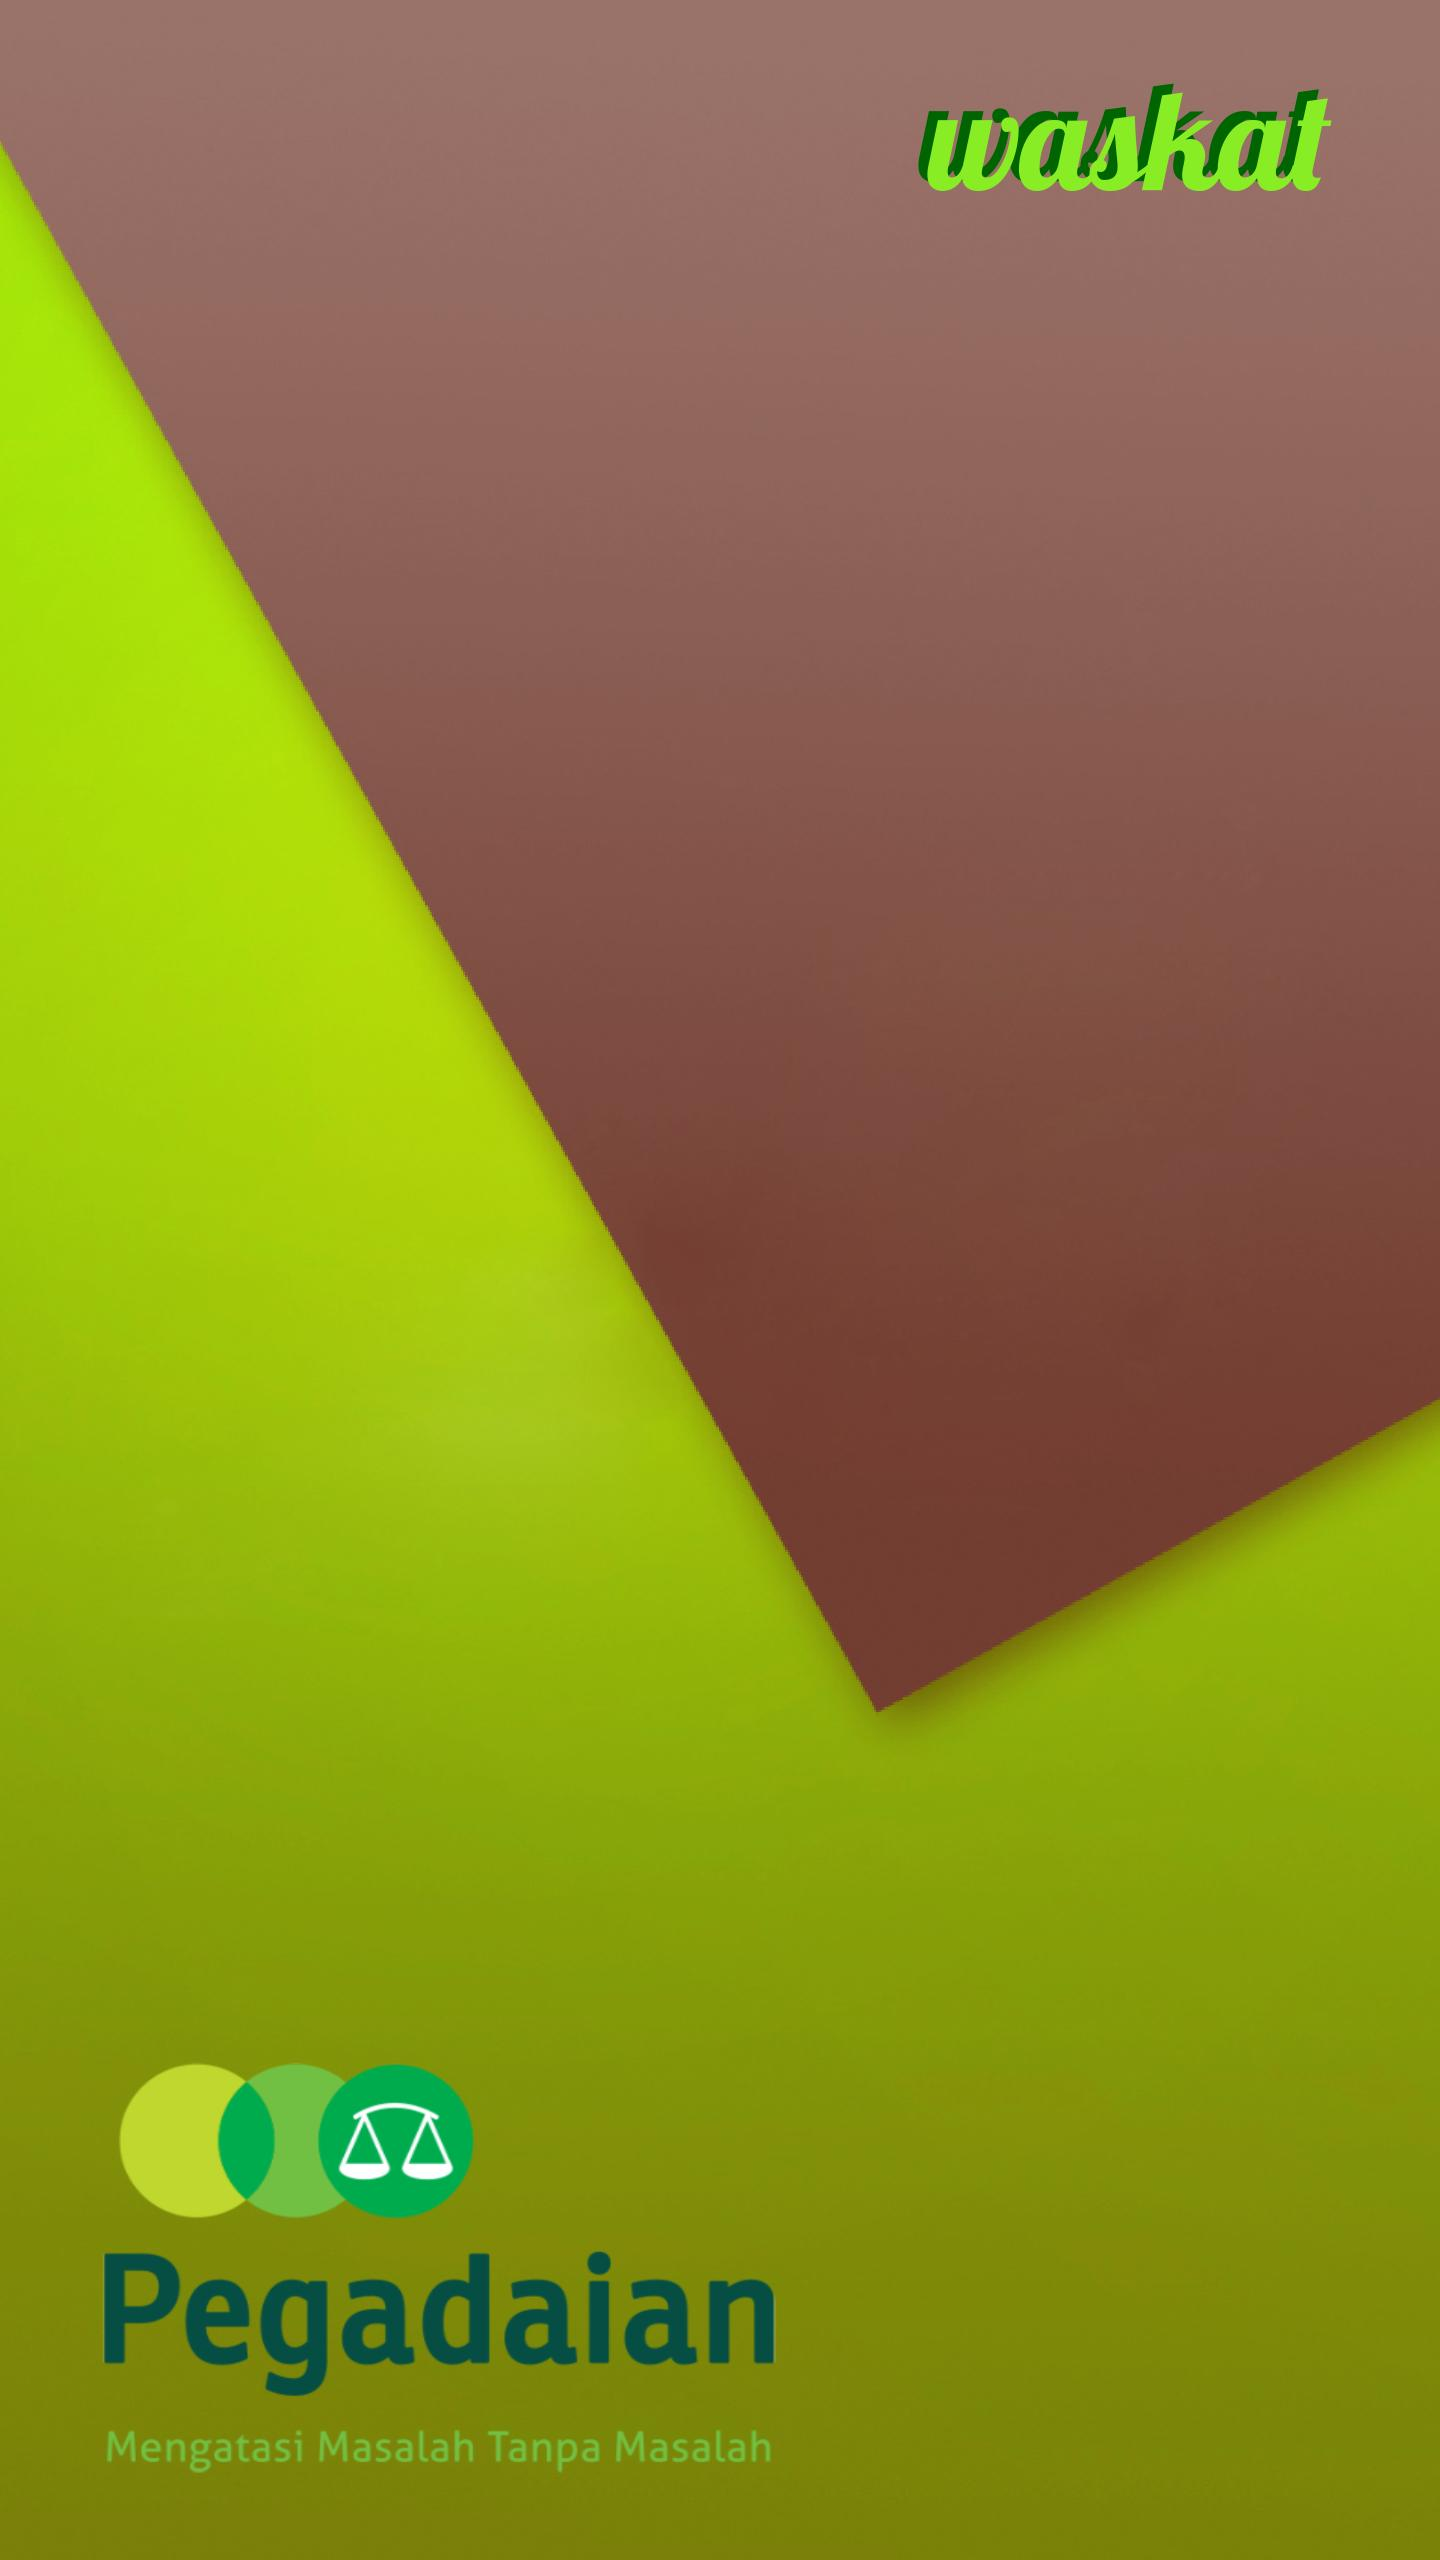
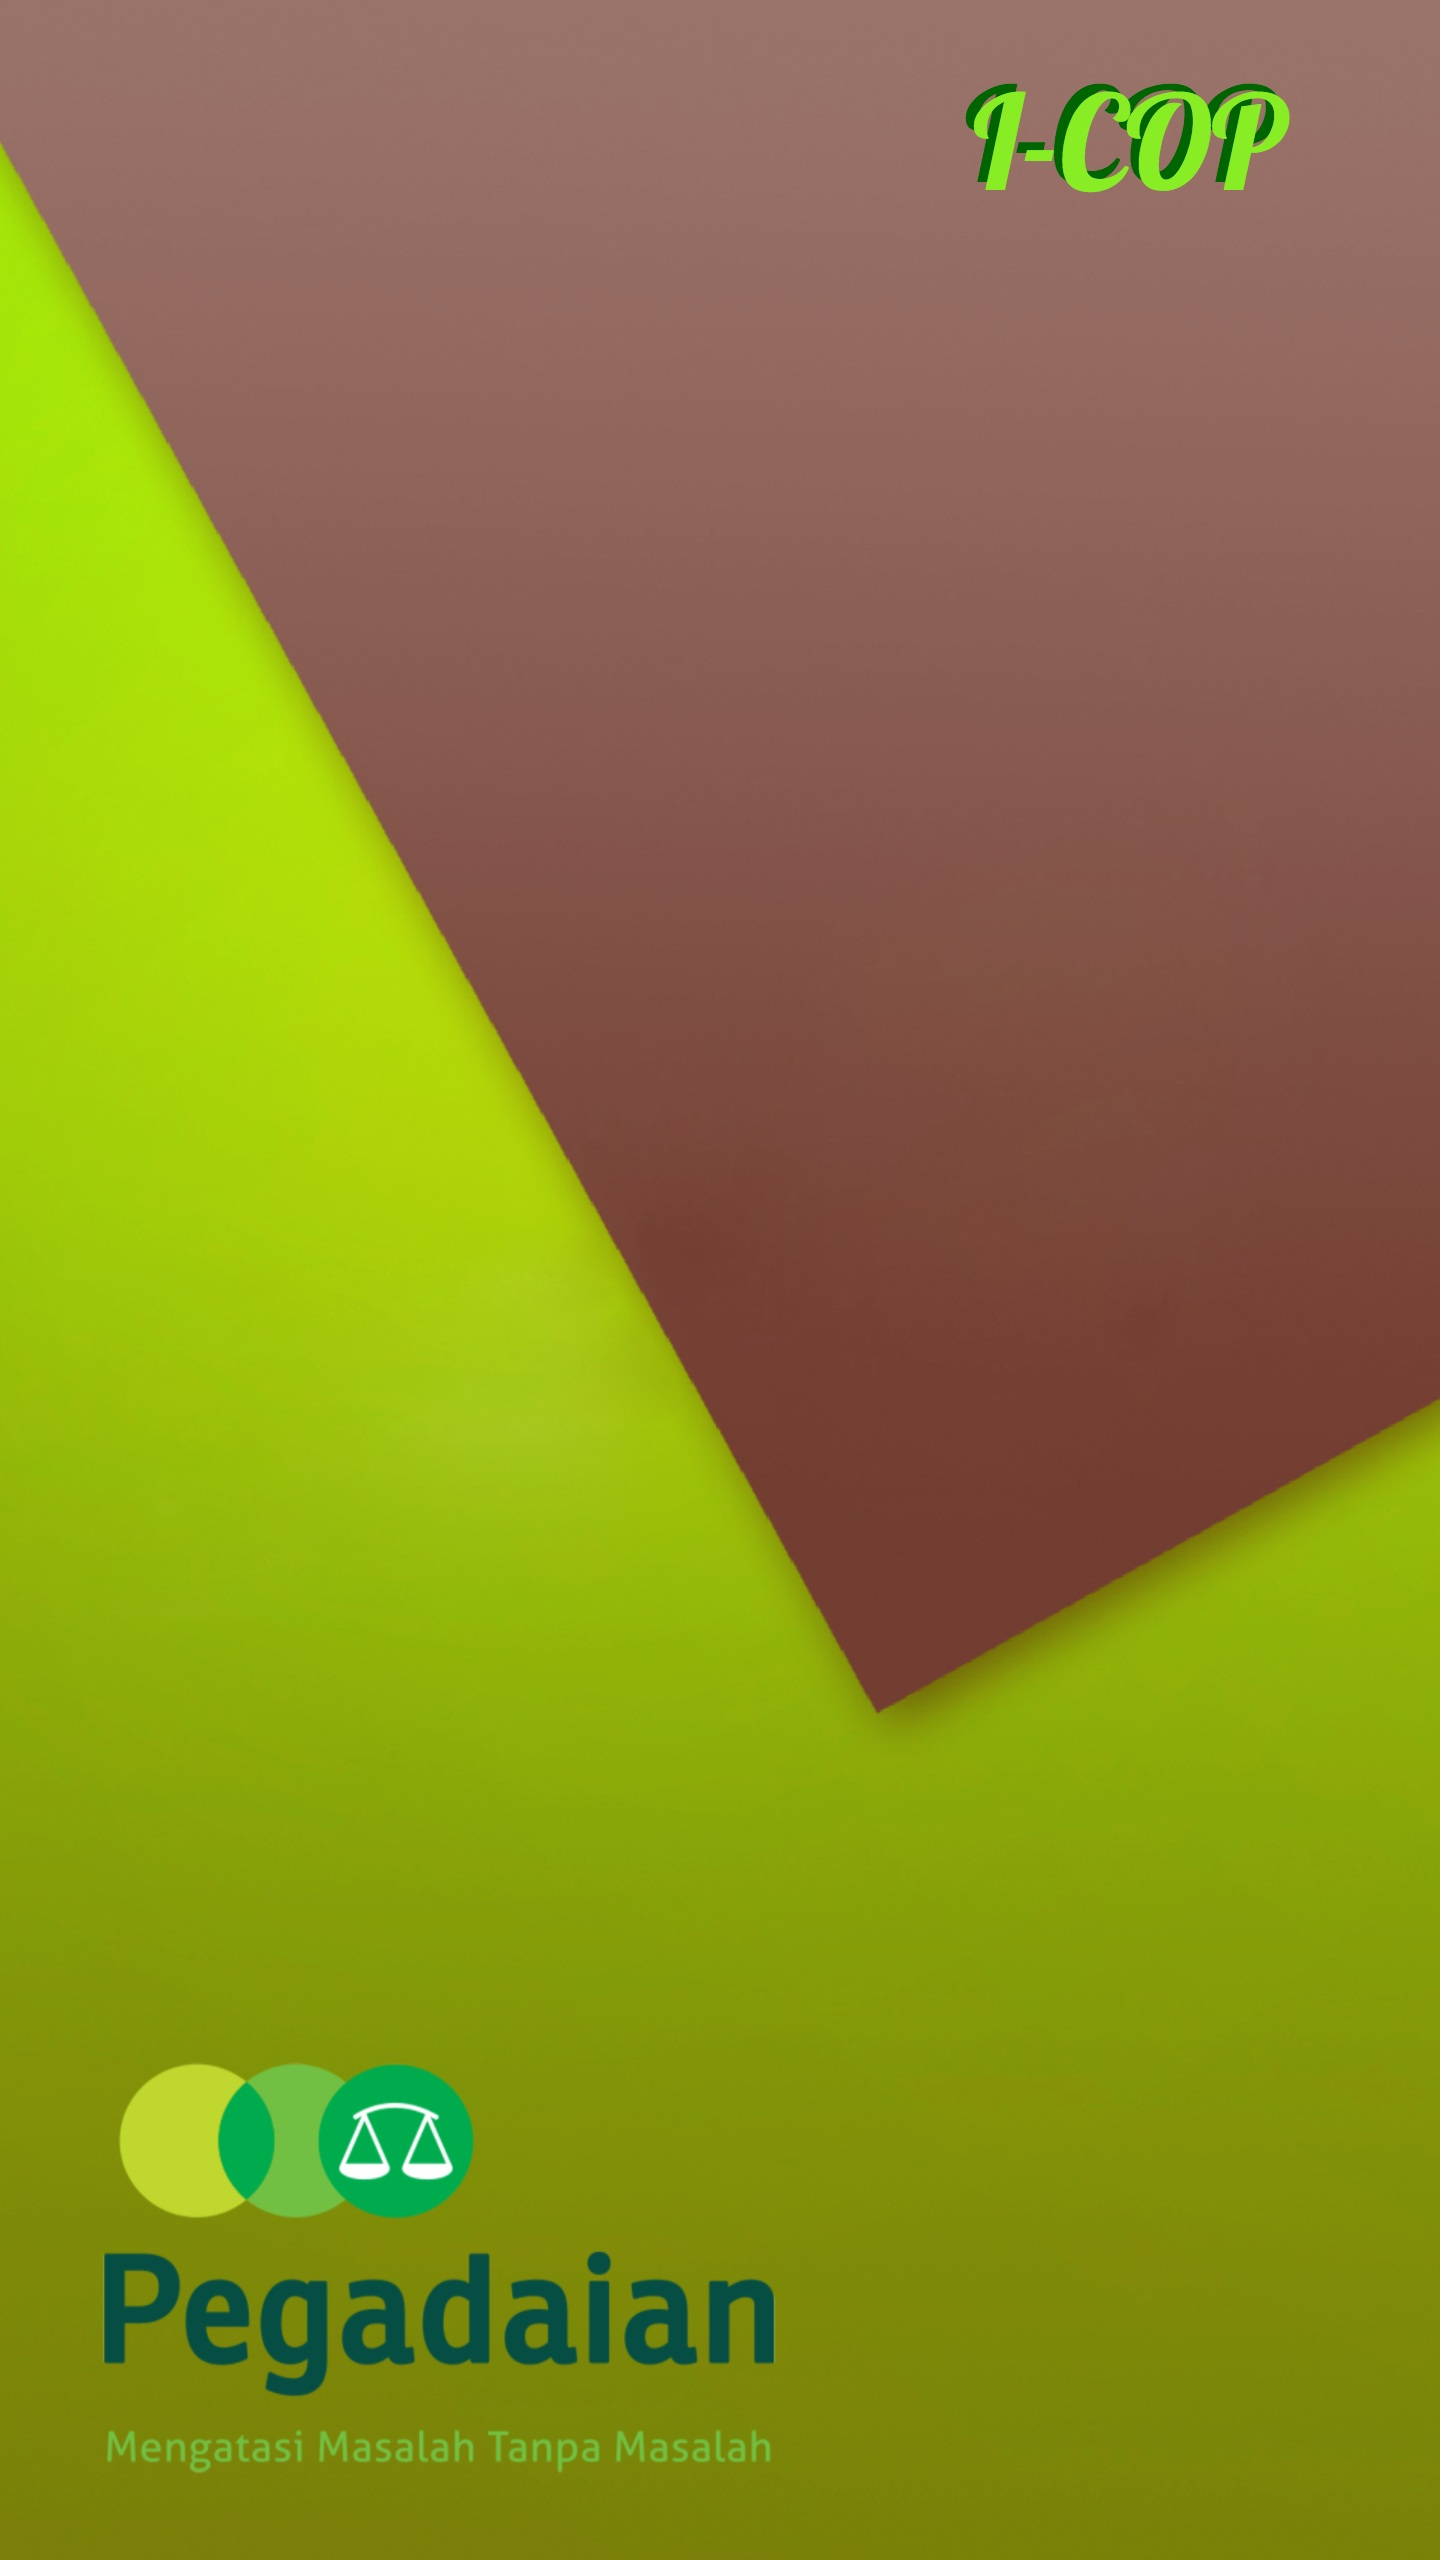
ganti project app engine krn yg lama crash, instance VM nya restart mulu

Changed region(s): [[0.625, 0.0312, 0.9375, 0.0938]]

diff --git a/waskat/src/components/home/cardBarang.js b/waskat/src/components/home/cardBarang.js
@@ -29,11 +29,7 @@ export default class CardBarang extends React.PureComponent {
         console.log('hasil delete', resultAxios)
         Alert.alert(
           'Sukses!',
-          `Berhasil delete user id: ${idUser}`,
-        [
-          {text: 'OK', onPress: () => this.props.getUser()}
-        ],
-        {cancelable: false})
+          `Berhasil delete user id: ${idUser}`)
       })
       .catch(err => {
         console.log('error delete user', err)
@@ -66,9 +62,11 @@ export default class CardBarang extends React.PureComponent {
                 </View>
               </View>
             </View>
+            <View style={{flex: 0.5, paddingTop: 10}}>
               <TouchableOpacity style={styles.keluhanPreview} onPress={() => this._deleteUser(_id, id)}>
                 <Text style={styles.textButtonHapus}>Hapus</Text>
               </TouchableOpacity>
+            </View>
           </View>
           <TouchableOpacity>
           </TouchableOpacity>
@@ -128,7 +126,6 @@ export default class CardBarang extends React.PureComponent {
     },
     cards: {
       flex:1,
-      height: height * 0.22,
       width: width*0.95,
       flexDirection: 'row',
       justifyContent: 'space-between',
@@ -199,7 +196,6 @@ export default class CardBarang extends React.PureComponent {
     keluhanPreview: {
       padding: 5,
       marginRight: 10,
-      marginLeft: 5,
       width: width * 0.25,
       backgroundColor: 'green',
       borderRadius: 30,

diff --git a/waskat/src/components/home/addKredit.js b/waskat/src/components/home/addKredit.js
@@ -205,7 +205,7 @@ export default class AddKredit extends Component {
     Crop.default.openCamera({width: 400, height: 400, cropping: true})
     .then(image => {
       gambar = []
-      let url = 'https://waskat-tools.appspot.com/upload/single'
+      let url = 'https://i-cop-188711.appspot.com/upload/single'
       let RandomNumber = Math.floor(Math.random() * 10000000) + 1 ;
       const postData = new FormData()
       postData.append('file', { uri: image.path, type: 'image/jpg', name: `barang-${RandomNumber}.jpg` })
@@ -234,7 +234,7 @@ export default class AddKredit extends Component {
     this.setState(previousState => { return {spinnerVisible: true, showModalCamera: false, opacity: 1} })
     Crop.default.openPicker({width: 400, height: 400, cropping: true})
     .then(image => {
-      let url = 'https://waskat-tools.appspot.com/upload/single'
+      let url = 'https://i-cop-188711.appspot.com/upload/single'
       const postData = new FormData()
       let RandomNumber = Math.floor(Math.random() * 10000000) + 1 ;
       postData.append('file', { uri: image.path, type: 'image/jpg', name: `barang-${RandomNumber}.jpg` })

diff --git a/waskat/src/components/home/cardCustomer.js b/waskat/src/components/home/cardCustomer.js
@@ -57,9 +57,11 @@ export default class CardCustomer extends React.PureComponent {
                 </View>
               </View>
             </View>
+            <View style={{flex: 0.5, paddingTop: 10}}>
               <TouchableOpacity style={styles.keluhanPreview} onPress={() => this._deleteCustomer(_id)}>
                 <Text style={styles.textButtonHapus}>Hapus</Text>
               </TouchableOpacity>
+            </View>
           </View>
           <TouchableOpacity>
           </TouchableOpacity>
@@ -118,8 +120,7 @@ export default class CardCustomer extends React.PureComponent {
       alignItems: 'center'
     },
     cards: {
-      flex:1,
-      height: height * 0.20,
+      flex:2,
       width: width*0.95,
       flexDirection: 'row',
       justifyContent: 'space-between',
@@ -191,7 +192,6 @@ export default class CardCustomer extends React.PureComponent {
     keluhanPreview: {
       padding: 5,
       marginRight: 10,
-      marginLeft: 5,
       width: width * 0.25,
       backgroundColor: 'green',
       borderRadius: 30,

diff --git a/server/helper/imgUpload.js b/server/helper/imgUpload.js
@@ -2,11 +2,11 @@ const storage = require('@google-cloud/storage')
 const generateId = require('../helper/idGen').generateId
 
 const gcs = storage({
-  projectId: 'waskat-tools',
-  keyFilename: './waskat-tools-8cfcb8792f1d.json'
+  projectId: 'i-cop-188711',
+  keyFilename: './I-COP-da21af5db96c.json'
 })
 
-const bucketName = 'asia.artifacts.waskat-tools.appspot.com'
+const bucketName = 'asia.artifacts.i-cop-188711.appspot.com'
 const bucket = gcs.bucket(bucketName)
 
 function getPublicUrl (filename) {

diff --git a/waskat/src/api/index.js b/waskat/src/api/index.js
@@ -1,4 +1,4 @@
-let BASE_URL = 'https://waskat-tools.appspot.com'
+let BASE_URL = 'https://i-cop-188711.appspot.com'
 
 export const URL_GET_DATA_USER = BASE_URL + '/user'
 export const URL_GET_DATA_BARANG = BASE_URL + '/barang'
